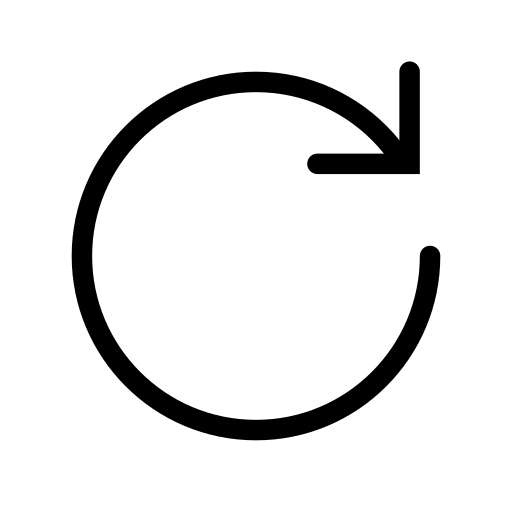
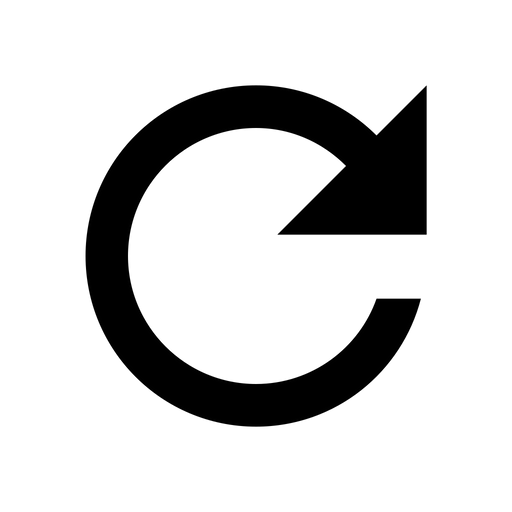
minor

Changed region(s): [[0.125, 0.0938, 0.875, 0.875]]

diff --git a/index.html b/index.html
@@ -55,19 +55,19 @@
 
 			<li style="margin-left: 40px;">
 				<button>
-					<img src="previous.png" height="15px">
+					<img src="previous.png" height="15px" style="opacity: 0.5;">
 				</button>
 			</li>
 
 			<li>
 				<button>
-					<img src="next.png" height="15px">
+					<img src="next.png" height="15px" style="opacity: 0.5;">
 				</button>
 			</li>
 
 			<li style="margin-left:20px;">
 				<button onclick="reloadTab()">
-					<img src="reload.png" height="15px">
+					<img src="reload.png" height="20px" style="padding-top: 3px">
 				</button>
 			</li>
 

diff --git a/main.js b/main.js
@@ -30,5 +30,5 @@ function reloadTab() {
 }
 
 function newTab() {
-	alert("Currently, it does not support external page.");
+	alert("Currently, it does not support external pages.");
 }
